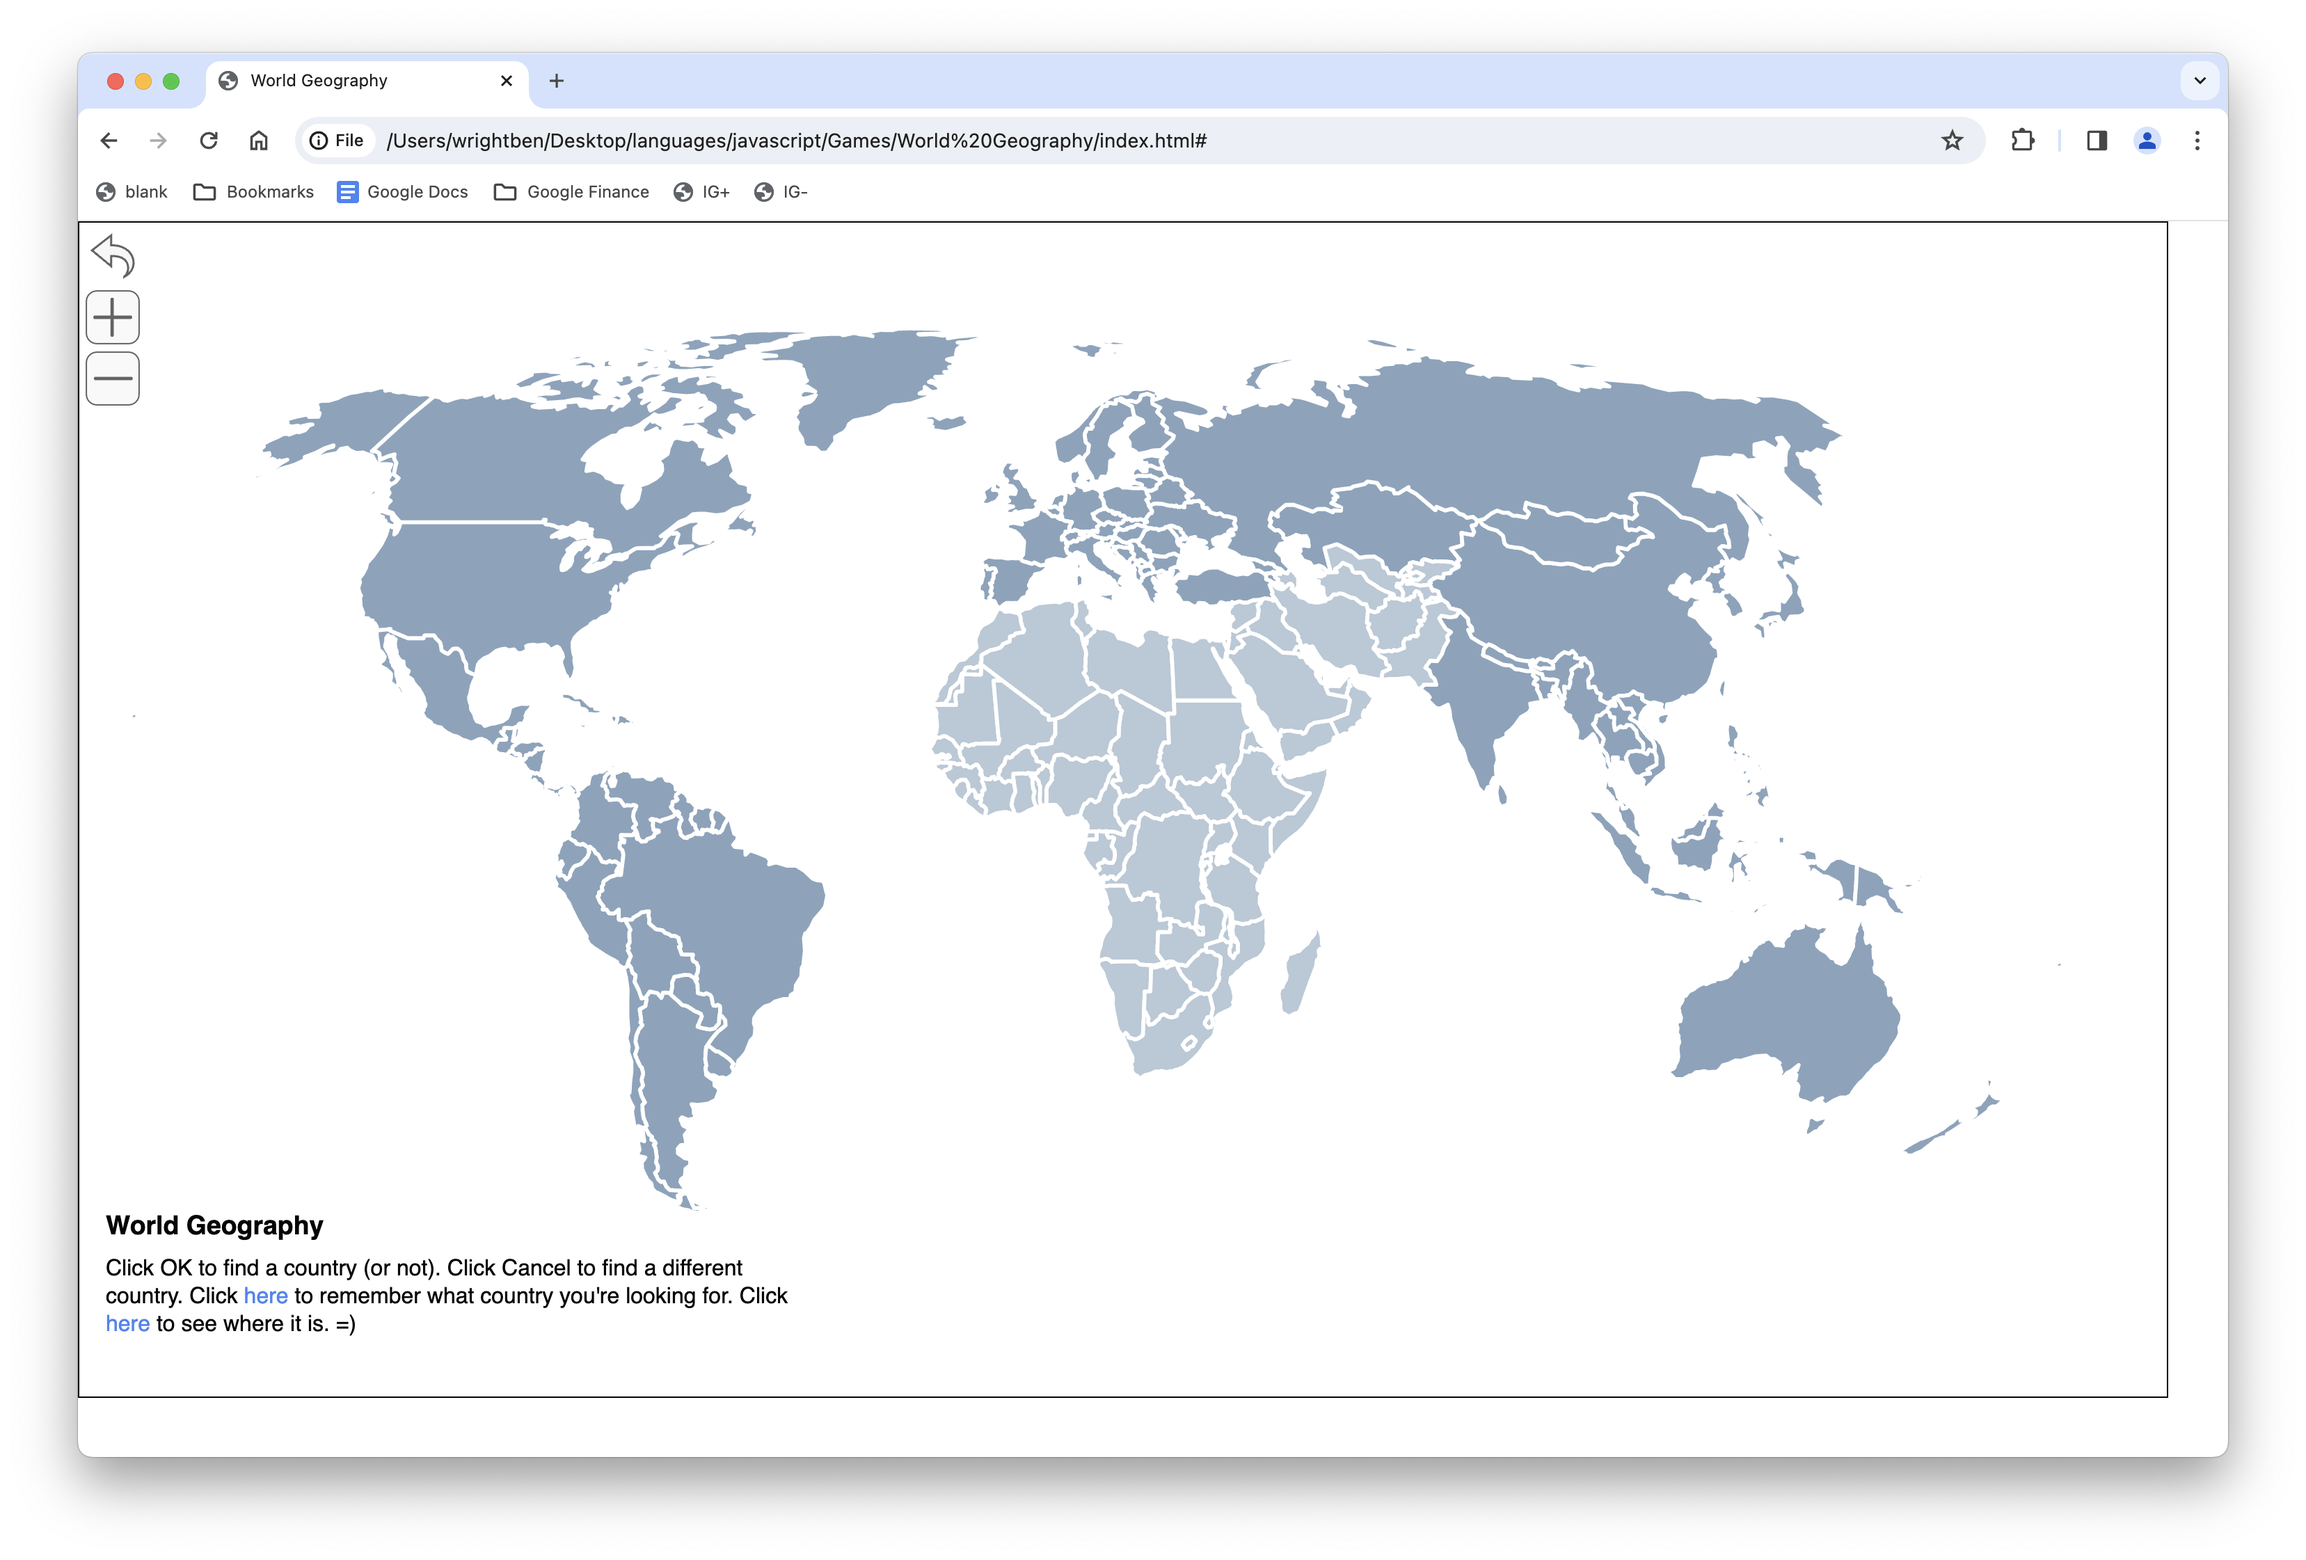
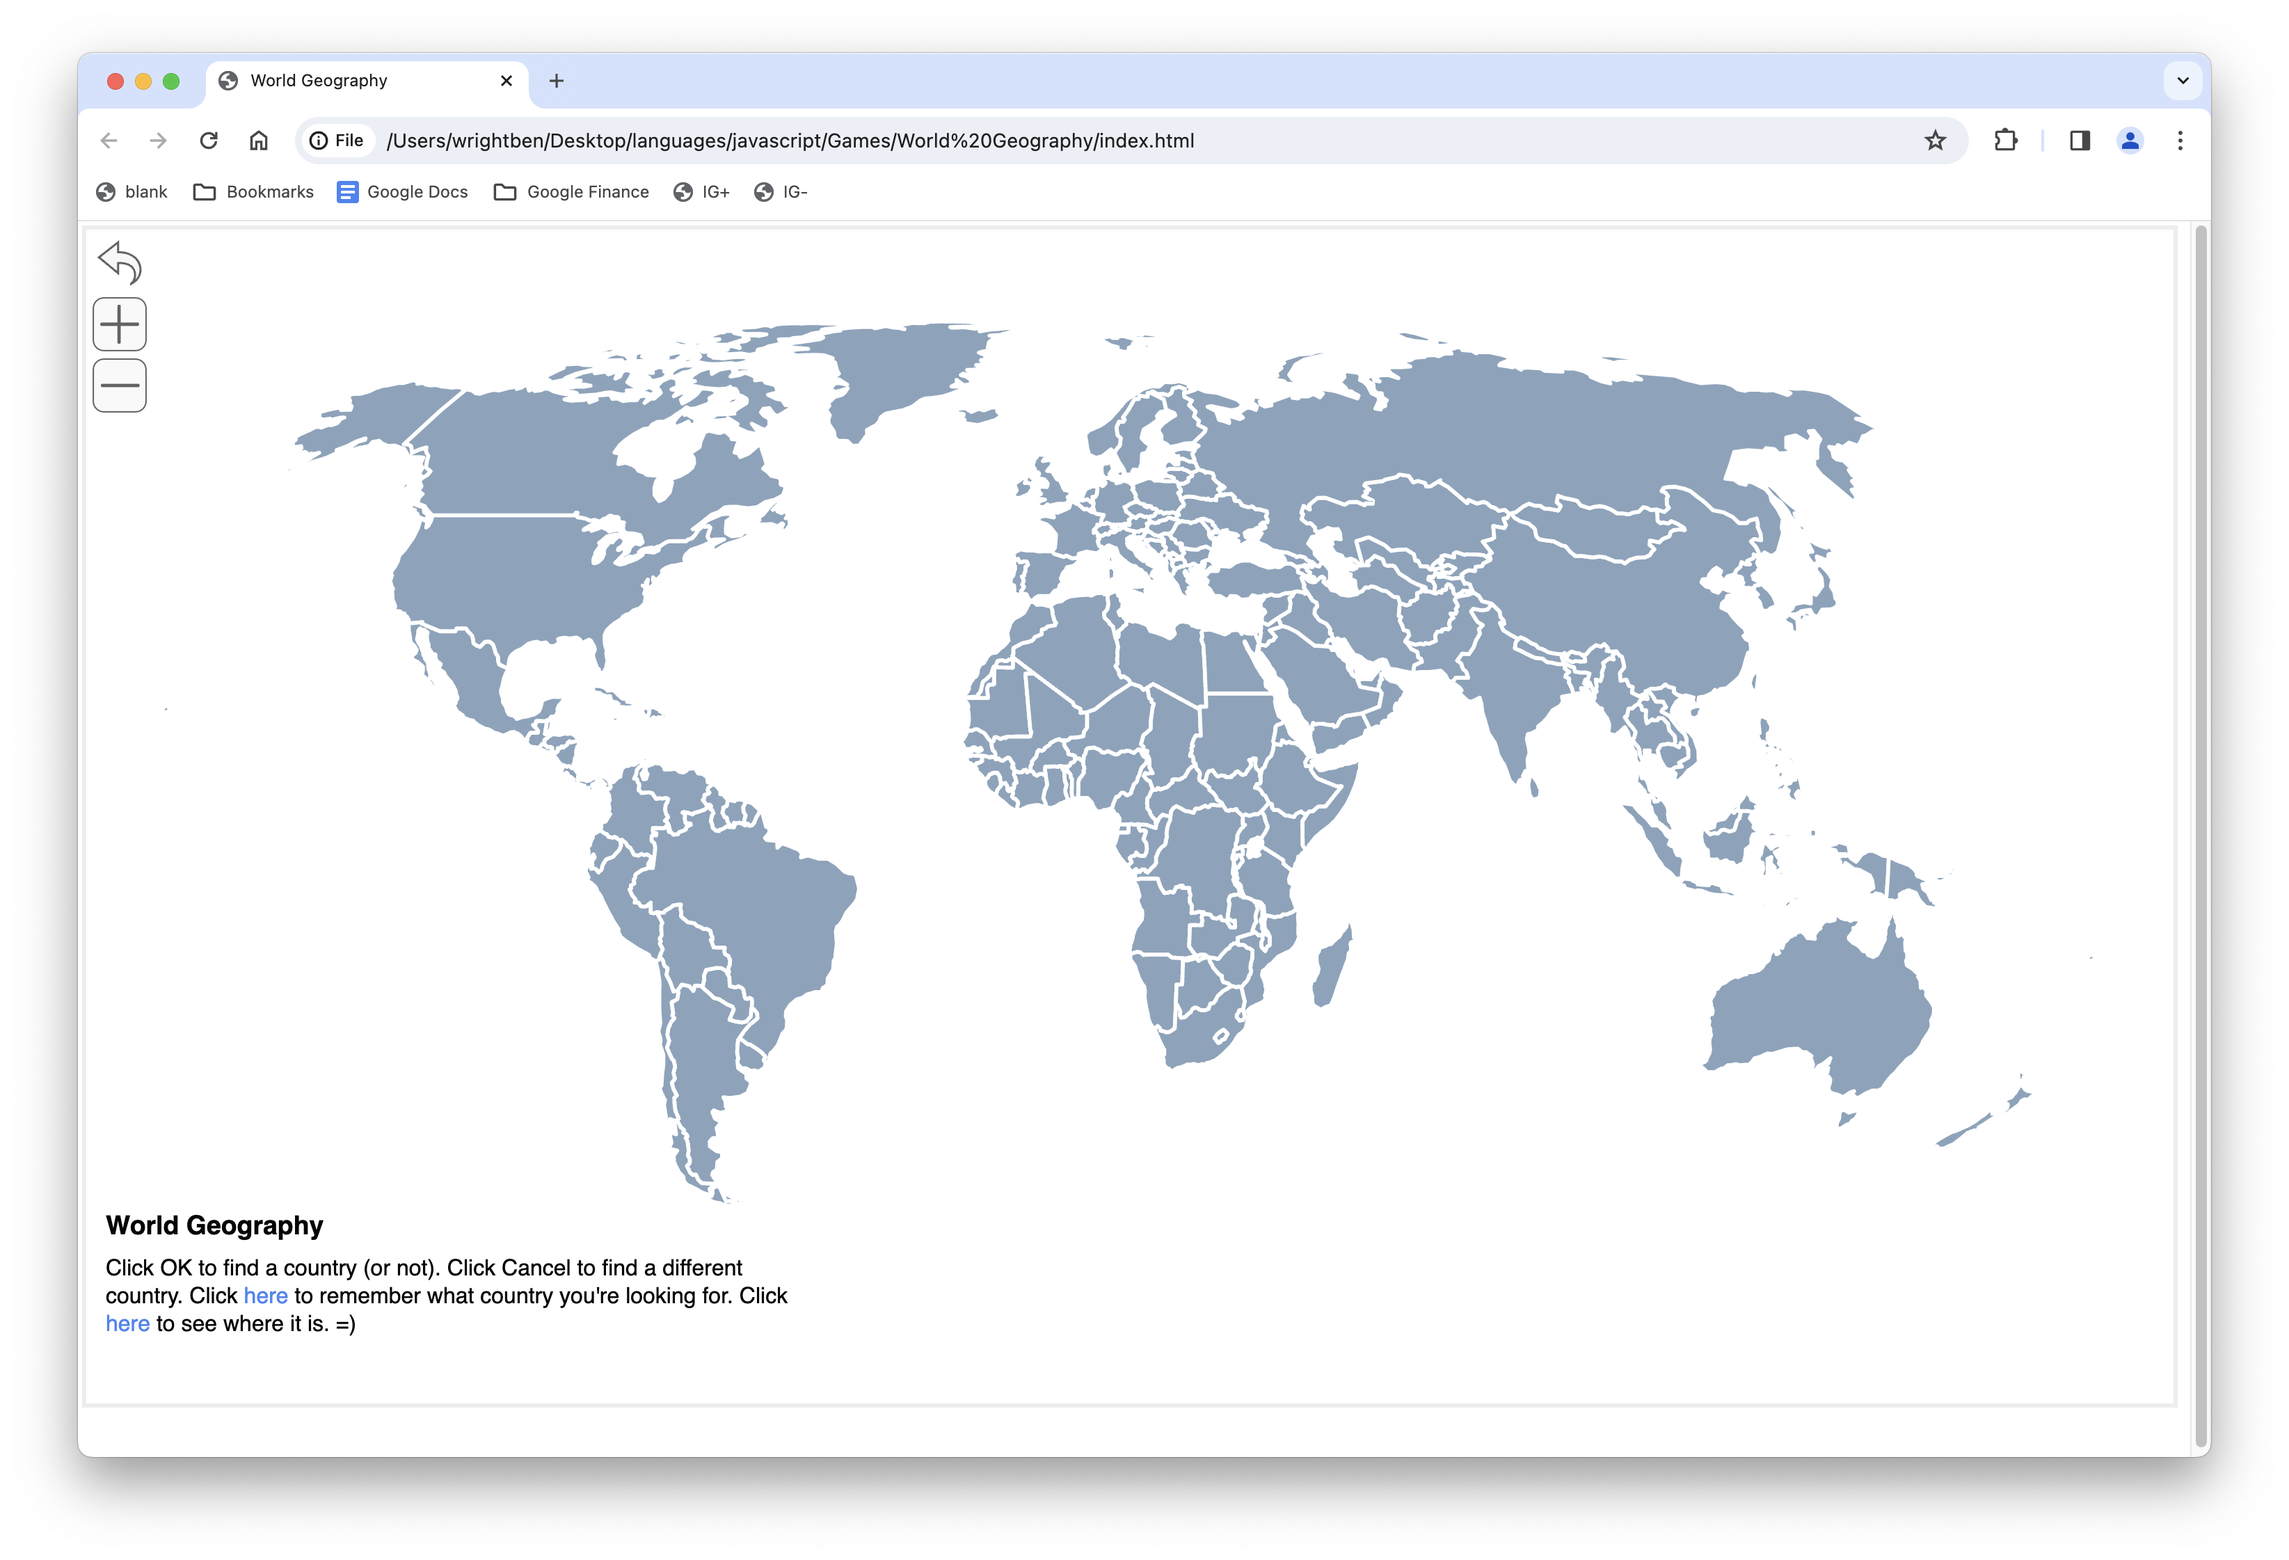
gitall commit

diff --git a/javascript/Games/World Geography/index.html b/javascript/Games/World Geography/index.html
@@ -16,9 +16,9 @@
 				text-decoration: none;
 			}
 			#map {
-				margin-top: 5px;
-				margin-left: 5px;
-				border: 1px solid #050505;
+				margin-top: 3px;
+				margin-left: 3px;
+				border: 3px solid rgb(237 237 237);
 				height: 95vh;
 			}
 			#text {
